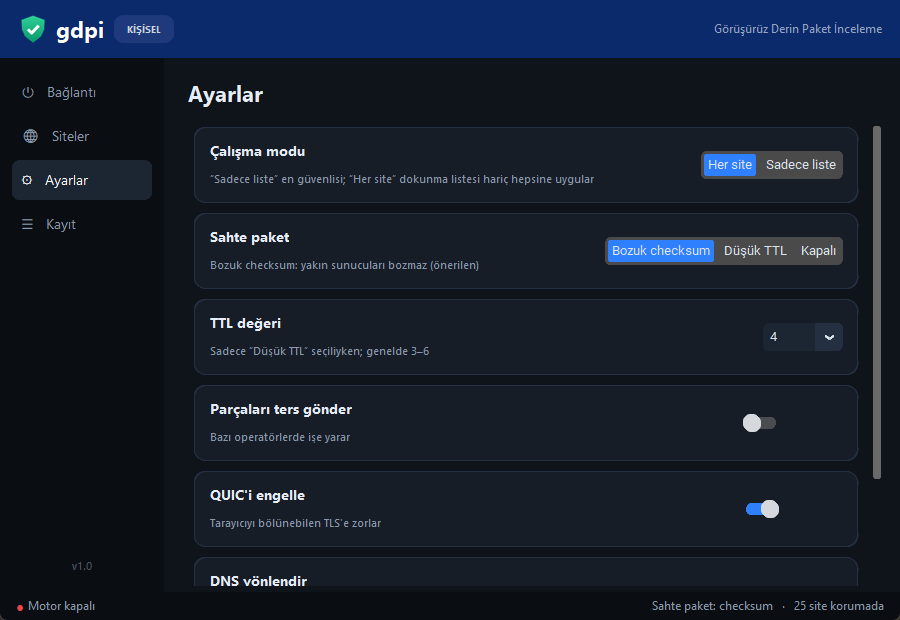
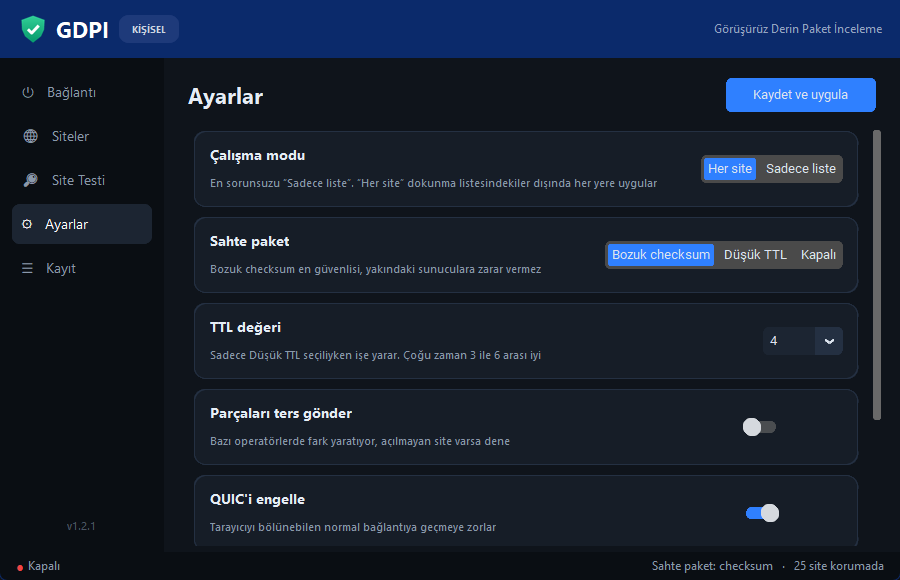
Ekran görüntülerini ve ayar açıklamalarını yeniledim

diff --git a/gdpi.py b/gdpi.py
@@ -1022,17 +1022,17 @@ class App(ctk.CTk):
         sw = lambda var, cmd=None: lambda c: ctk.CTkSwitch(
             c, text="", variable=var, command=cmd, progress_color=C["blue"])
         rows = [
-            ("Çalışma modu", "“Sadece liste” en güvenlisi; “Her site” dokunma listesi hariç hepsine uygular",
+            ("Çalışma modu", "En sorunsuzu “Sadece liste”. “Her site” dokunma listesindekiler dışında her yere uygular",
              seg(self.v_mode, ["Her site", "Sadece liste"])),
-            ("Sahte paket", "Bozuk checksum: yakın sunucuları bozmaz (önerilen)",
+            ("Sahte paket", "Bozuk checksum en güvenlisi, yakındaki sunuculara zarar vermez",
              seg(self.v_fake, ["Bozuk checksum", "Düşük TTL", "Kapalı"])),
-            ("TTL değeri", "Sadece “Düşük TTL” seçiliyken; genelde 3–6",
+            ("TTL değeri", "Sadece Düşük TTL seçiliyken işe yarar. Çoğu zaman 3 ile 6 arası iyi",
              lambda c: ctk.CTkOptionMenu(c, values=[str(i) for i in range(1, 13)], variable=self.v_ttl,
                                          width=80, fg_color=C["card2"], button_color=C["line"])),
-            ("Parçaları ters gönder", "Bazı operatörlerde işe yarar", sw(self.v_rev)),
-            ("QUIC'i engelle", "Tarayıcıyı bölünebilen TLS'e zorlar", sw(self.v_quic)),
-            ("DNS yönlendir", "Operatör DNS'ini aşar (Yandex 77.88.8.8:1253)", sw(self.v_dns)),
-            ("Windows ile başlat", "Açılışta tepside ve açık başlar, onay sormaz",
+            ("Parçaları ters gönder", "Bazı operatörlerde fark yaratıyor, açılmayan site varsa dene", sw(self.v_rev)),
+            ("QUIC'i engelle", "Tarayıcıyı bölünebilen normal bağlantıya geçmeye zorlar", sw(self.v_quic)),
+            ("DNS yönlendir", "Operatörün DNS engelini aşar (Yandex DNS kullanır)", sw(self.v_dns)),
+            ("Windows ile başlat", "Bilgisayar açılınca sessizce başlar, izin sormaz",
              sw(self.v_auto, self.toggle_autostart)),
         ]
         for i, (title, sub, make) in enumerate(rows):

diff --git a/README.md b/README.md
@@ -80,13 +80,15 @@ istersen `powershell -ExecutionPolicy Bypass -File build.ps1` yeterli, sonuç `d
 
 ## Nasıl kullanılır?
 
-Ana ekrandaki düğme GDPI'ı açıp kapatıyor. Altında ne kadar süredir açık olduğunu ve kaç bağlantıya karıştığını
-görüyorsun. Hafif, Dengeli ve Agresif diye üç hazır profil var. Bir şey çalışmazsa önce bunları dene.
+Açınca karşına kocaman bir düğme çıkıyor, basınca açılıyor, bir daha basınca kapanıyor. Altında ne kadar süredir
+açık olduğu ve kaç bağlantıya yardım ettiği yazıyor. Hafif, Dengeli ve Agresif diye üç hazır ayar da var. Bir site
+açılmazsa ilk iş bunlarla oynamak.
 
-**Siteler** sayfasında iki liste var: solda engelli siteler, sağda asla dokunulmayacaklar. Her satıra bir alan
-adı yazman yeterli, alt alan adları da otomatik kapsanıyor. **Site Testi**'nde tek bir siteyi ya da listedekilerin
-hepsini deneyebilirsin. **Ayarlar**'dan modu, sahte paket türünü, QUIC ve DNS ayarlarını değiştirebilirsin.
-"Kaydet ve uygula" deyince GDPI'ı kapatıp açmana gerek kalmadan hemen geçerli oluyor.
+**Siteler** sayfası iki listeden ibaret. Solda engelli siteler, sağda GDPI'ın hiç karışmayacağı siteler. Her satıra
+bir site adı yazıyorsun, `discord.com` yazınca `cdn.discord.com` gibi alt adresler de kendiliğinden dahil oluyor.
+**Site Testi**'nde bir siteyi ya da listendekilerin hepsini tek seferde deneyebilirsin. **Ayarlar**'da biraz daha
+ince ayar var. Bir şeyi değiştirip "Kaydet ve uygula"ya bastığında GDPI'ı kapatıp açmana gerek kalmıyor, hemen
+geçerli oluyor.
 
 <p align="center">
   <img src="docs/siteler.png" width="49%"> <img src="docs/test.png" width="49%">
